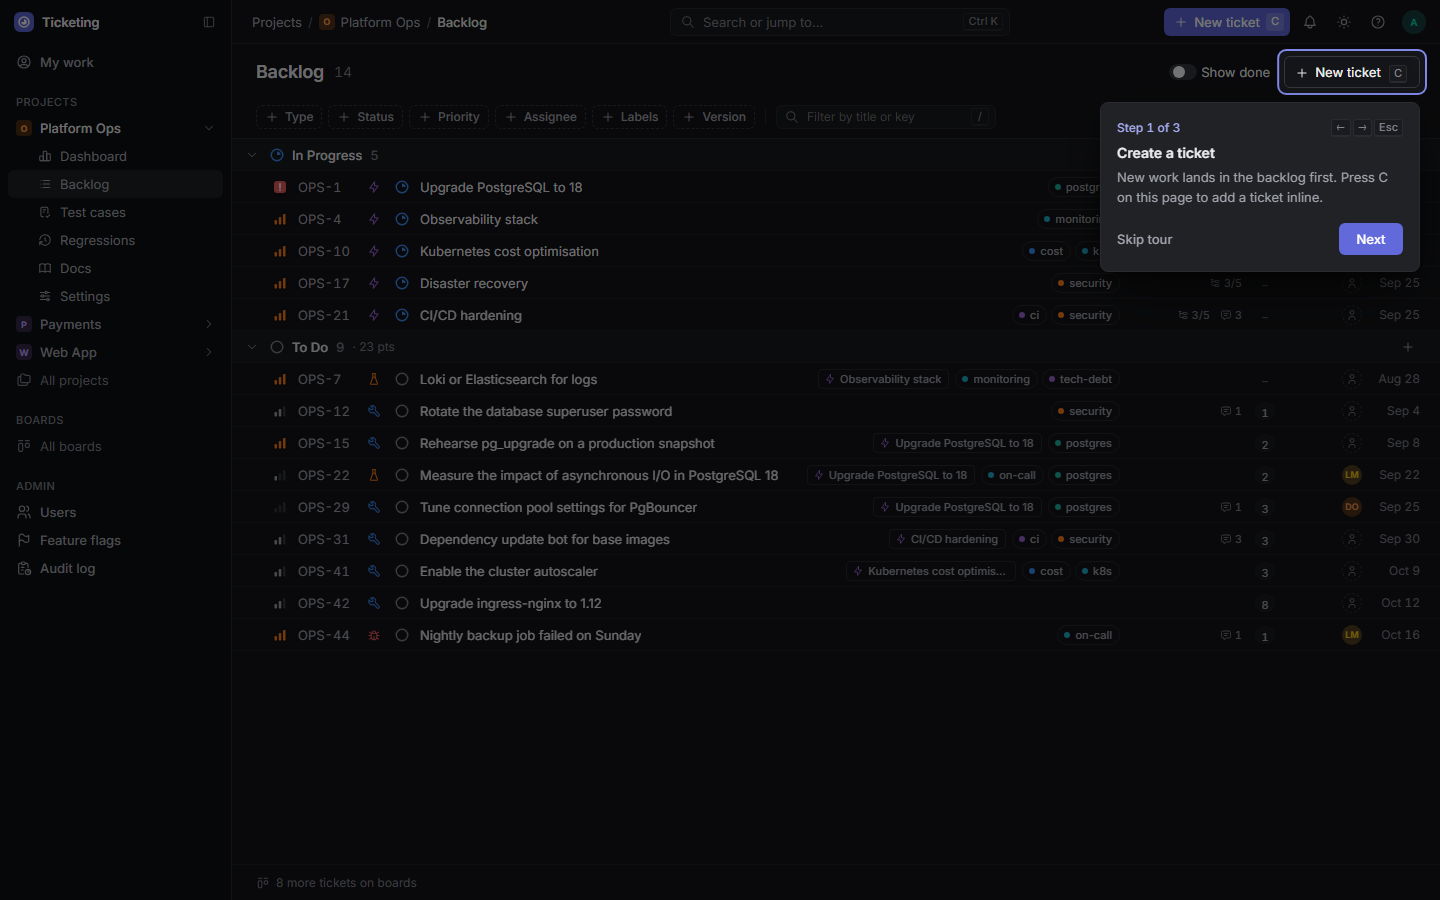
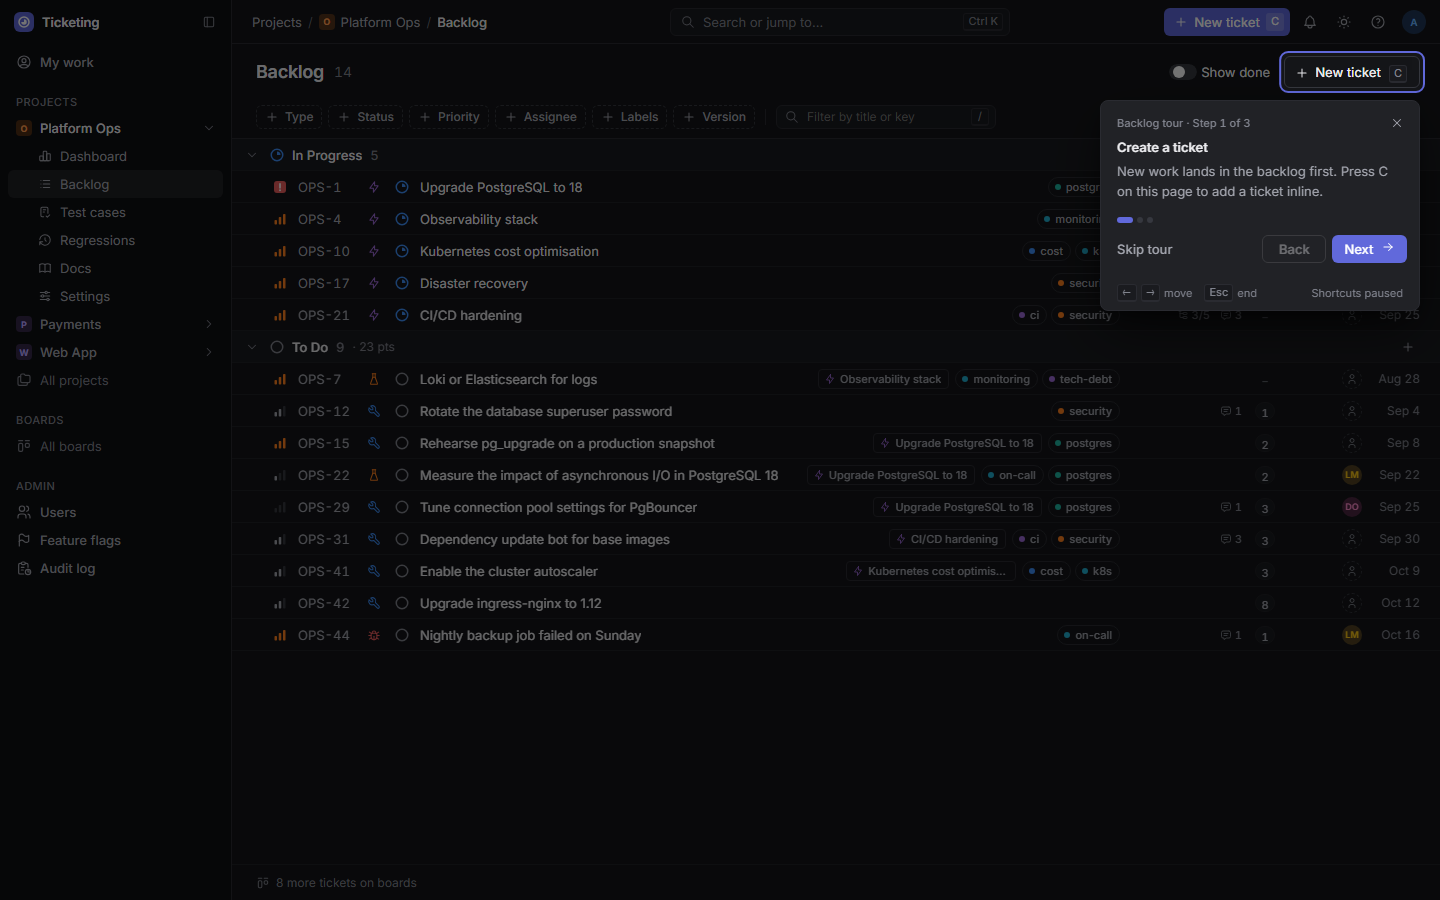
TKT-53: research note and screenshots for the mockup look, anchor test per spec 14.4

Changed region(s): [[0.75, 0.1244, 1.0, 0.3733], [0.875, 0.0622, 1.0, 0.1244], [0.9062, 0.0311, 1.0, 0.0622]]

diff --git a/docs/research/tour-engine.md b/docs/research/tour-engine.md
@@ -25,7 +25,7 @@ Tour data for the demo is in `features/ui-kit/tour-prototype.ts`. The real backl
 | `tour.model.ts` | `TourDefinition`, `TourStep`, `TourAccess`. Pure data, no Angular imports. | types only |
 | `tour-logic.ts` | Pure rules: role filter, `:param` routes, path match, skip and abort plan, spotlight hole geometry. | lazy |
 | `tour-anchor.registry.ts` | `TourAnchorRegistry`, a root service: signal list of `{ id, element }`, `get`, `has`, `whenAvailable(id, timeout)`. | root, tiny |
-| `tour-anchor.directive.ts` | `tkTourAnchor="backlog.new-ticket"`: renders `data-tour`, registers while in the DOM. | in feature chunks |
+| `tour-anchor.directive.ts` | `tkTourAnchor="backlog.quick-create"`: renders `data-tour`, registers while in the DOM. | in feature chunks |
 | `tour-launcher.ts` | `TourLauncher.start(tour, { access, params, returnFocusTo })` resolves `TourResult`. Plans the tour, then `import('./tour-session')`. | root, tiny |
 | `tour-session.ts` | One running tour: overlays, measuring, keys, interruptions. | lazy chunk |
 | `tour-spotlight.component.ts` | Full-screen SVG with a `<mask>` hole and an accent ring. | lazy chunk |
@@ -35,14 +35,14 @@ Tour data for the demo is in `features/ui-kit/tour-prototype.ts`. The real backl
 
 | Criterion | How | Verified |
 |---|---|---|
-| Spotlight on the backlog's New button, SVG mask in a CDK overlay | Overlay 1: global position strategy, transparent CDK backdrop, `tk-tour-spotlight` (fixed, `pointer-events: none`) draws `rect.dim` filled with `--tk-overlay-mask` through a `<mask>` whose black rounded rect is the hole (padding 6 px, `rx` 8). | Playwright on our own stack: New button at (1284, 56, 136×32), hole at (1278, 50, 148×44). |
-| Re-measured with ResizeObserver and on scroll | `ResizeObserver` on the anchor and on `<html>`, plus `resize` on the window and a capturing, passive `scroll` listener on the document (inner scroll containers included). Everything is throttled to one `requestAnimationFrame`. A disconnected anchor (re-render, `@if`) is looked up again through the registry. | Scrolling the UI kit's content by 40 px moved the hole from y 38 to 0 (clipped). Resizing 1440→1000 px changed the hole width from 464 to 414. |
-| Popover with `FlexibleConnectedPositionStrategy` | Overlay 2: `createFlexibleConnectedPositionStrategy(injector, anchor)` with the step's `placement` first, then below/above (start and end aligned), end, start. Uses `withPush`, an 8 px viewport margin and a reposition scroll strategy. On a step change, `setOrigin()` + `withPositions()` + `updatePosition()` reuse the same overlay. | Card at x 1100 below-end of the New button (the below-start position would overflow). |
+| Spotlight on the backlog's New button, SVG mask in a CDK overlay | Overlay 1: global position strategy, transparent CDK backdrop, `tk-tour-spotlight` (fixed, `pointer-events: none`) draws `rect.dim` filled with `--tk-overlay-mask` through a `<mask>` whose black rounded rect is the hole (padding 4 px, `rx` 8), plus a 2 px `--tk-accent` ring. | Playwright on our own stack: New button (`backlog.quick-create`) at (1284, 56, 136×32), hole at (1280, 52, 144×40). |
+| Re-measured with ResizeObserver and on scroll | `ResizeObserver` on the anchor and on `<html>`, plus `resize` on the window and a capturing, passive `scroll` listener on the document (inner scroll containers included). Everything is throttled to one `requestAnimationFrame`. A disconnected anchor (re-render, `@if`) is looked up again through the registry. | Scrolling the UI kit's content by 40 px moved the hole from y 40 to 0 (clipped). Resizing 1440→1000 px changed the hole width from 460 to 410. |
+| Popover with `FlexibleConnectedPositionStrategy` | Overlay 2: `createFlexibleConnectedPositionStrategy(injector, anchor)` with the step's `placement` first, then below/above (start and end aligned), end, start. Uses `withPush`, an 8 px viewport margin and a reposition scroll strategy. On a step change, `setOrigin()` + `withPositions()` + `updatePosition()` reuse the same overlay. | Card at x 1100, y 100: below the New button, aligned to its end (the start-aligned position would overflow). |
 | `cdkTrapFocus`, `role="dialog"` + `aria-labelledby`, "Step n of m" via `LiveAnnouncer` | Card markup as above; `aria-describedby` points at the body. The dialog takes focus on open (screen readers read title and body). Each step change calls `LiveAnnouncer.announce('Step 2 of 3: Group and sort', 'polite')`. The CDK adds the live region to `aria-owns` of `aria-modal` elements, so VoiceOver still hears it. | Vitest and Playwright: role, `aria-modal`, label text, focus inside, live region text "Step 1 of 3: Create a ticket". |
 | Esc, ← and → | `OverlayRef.keydownEvents()` of the popover (the CDK keyboard dispatcher), so keys work wherever focus is. On the last step, → does nothing: Done must be pressed. | Vitest and Playwright. |
 | Focus returns to the trigger | `returnFocusTo` (default: the element focused at start) is refocused on `completed`, `dismissed` and `aborted`, but not on `interrupted`: the peek or a dialog keeps its focus. | Vitest (`#trigger`) and Playwright (Done → `tour-demo-here` focused). |
 | Global shortcuts suppressed | No `ShortcutService` change. The spotlight overlay has a CDK backdrop, so `isOverlayOpen()` is true for the whole tour, as for any dialog. | Vitest: `c` not fired while open, fired after Esc. Playwright: `c` and `g m` did nothing during the tour; `g m` navigated after Esc. |
-| Light and dark themes | Only tokens: `--tk-surface-raised`, `--tk-border`, `--tk-shadow-lg`, `--tk-radius-lg`, `--tk-overlay-mask` (0.32 light / 0.55 dark), `--tk-focus`, `--tk-accent-fg`. | Screenshots `docs/screenshots/tkt-53-tour-step-{light,dark}.png`. |
+| Light and dark themes | Only tokens: `--tk-surface-raised`, `--tk-border`, `--tk-border-subtle`, `--tk-shadow-lg`, `--tk-radius-lg`, `--tk-overlay-mask` (0.32 light / 0.55 dark), `--tk-accent`, `--tk-text-subtle`. | Screenshots `docs/screenshots/tkt-53-tour-step-{light,dark}.png`. |
 | `prefers-reduced-motion` | The card's fade + 4 px rise, the spotlight fade and the hole's move use `--tk-duration-*`, which the tokens set to 0 ms. Scrolling the anchor into view uses `behavior: 'auto'` instead of `'smooth'`. | Playwright with `reducedMotion: 'reduce'`: animation duration `0s`. |
 | Zoneless | Signals plus `ComponentRef.setInput` and `afterNextRender`. The app and TestBed both run `provideZonelessChangeDetection()`. | All of the above ran zoneless. |
 | Initial bundle unchanged | `tour-session` and both components are one lazy chunk (12.2 kB raw). The directive and registry are a 1.2 kB chunk shared by the backlog and UI kit chunks. No tour code is reachable from `main` (checked by walking static imports). Initial total: 949.05 kB before, 949.32 kB after. The +0.27 kB is esbuild export plumbing, because the lazy launcher now imports `NavigationContext` and `PeekService` from the initial chunks. The budget (1 MB warning) is not touched. | `npm run build` on both commits. |
@@ -86,7 +86,7 @@ export const BACKLOG_TOUR: TourDefinition = {
   viewId: 'backlog.list',      // keyed by view id, never by variant (D-129)
   title: 'Backlog',
   steps: [
-    { id: 'new-ticket', anchor: 'backlog.new-ticket', requires: 'write', title: '…', body: '…' },
+    { id: 'quick-create', anchor: 'backlog.quick-create', requires: 'write', title: '…', body: '…' },
     { id: 'group-sort', anchor: 'backlog.group-sort', placement: 'below', title: '…', body: '…' },
   ],
 };
@@ -125,7 +125,7 @@ interface TourStep {
 - `tkTourAnchor="<view-area>.<thing>"` on the element; the directive renders `data-tour` and registers it in `TourAnchorRegistry`. Anchors are separate from `data-testid`: tests may change test ids freely, tours never look them up. Playwright may use `[data-tour=…]`.
 - The registry keeps a list, and the latest registration of an id wins. A peek panel over the board can expose `ticket.*` anchors while the page underneath has its own.
 - Ticket view sections added through `provideTicketDetailSection` put `tkTourAnchor` inside their own component (TKT-79).
-- **Anchor rule (D-129):** every variant of a view exposes the same tour anchor ids. A variant that drops a feature drops its anchor, and the step is skipped. Anchor ids are part of a view's contract like its view id. TKT-56 should add a Vitest per toured view that renders it and checks that the tour's anchor ids resolve. When a second variant ever exists, the same test runs over each variant.
+- **Anchor rule (D-129):** every variant of a view exposes the same tour anchor ids. A variant that drops a feature drops its anchor, and the step is skipped. Anchor ids are part of a view's contract like its view id. Spec 14.4 (TKT-75) names the guard: `e2e/tests/onboarding/tour-anchors.spec.ts` opens every tour's view with seeded data and fails when an anchor disappears, and a Vitest test checks that every tour's view id is registered. When a second variant ever exists, the e2e spec runs once per variant (force the flag).
 
 ### 4.4 Shortcuts, overlays, peek
 
@@ -138,16 +138,19 @@ interface TourStep {
 
 `TourLauncher`, `TourAnchorRegistry` and `TourAnchorDirective` are the only eager pieces: a few hundred bytes, in feature chunks or root services. The session, both components, `LiveAnnouncer` use and the positioning code load on the first `start()`. Tour definitions should be imported lazily by `GuidedTours` too (`import('./tours/backlog.tours')`), keyed by view id, so adding tours never grows `main`.
 
-## 5. Styling choices for TKT-75 (mockups)
+## 5. Look: the TKT-75 mockup, with one deviation
 
-The prototype look (screenshots above) uses only existing tokens. Proposed for the mockups:
-- Card: 320 px wide, `--tk-surface-raised`, 1 px `--tk-border`, `--tk-radius-lg` (8 px, the popover radius), `--tk-shadow-lg` (heavier than menus because it floats over a dimmed page), padding `--tk-space-4`.
-- Eyebrow row: "Step n of m" in `--tk-text-sm` medium `--tk-accent-fg` (tabular figures), and on the right `tk-kbd` hints `←` `→` `Esc`, hidden from screen readers.
-- Title `--tk-text-md` semibold; body `--tk-text-base` `--tk-text-muted`.
-- Actions: "Skip tour" (`mat-button`, muted, flush left; hidden on the last step), spacer, "Back" (`mat-stroked-button`, from step 2), "Next"/"Done" (`mat-flat-button`, accent).
-- Backdrop: `--tk-overlay-mask` (the same dim as dialogs), hole padded 6 px with radius 8 px, a 2 px `--tk-focus` ring around the hole.
-- No arrow or caret: the ring shows the target, and an arrow would need a second positioning pass when `withPush` shifts the card.
-- Motion: card fade + 4 px rise over `--tk-duration-fast`; spotlight fade and hole move over `--tk-duration-base`; all 0 under reduced motion.
+TKT-75's mockup (`docs/design/mockups/onboarding.html`, section "Tour step with spotlight") landed on the integration branch during the spike. The prototype follows it, using only existing tokens:
+- Card: 320 px, `--tk-surface-raised`, 1 px `--tk-border`, `--tk-radius-lg`, `--tk-shadow-lg`.
+- Eyebrow: "Backlog tour · Step 1 of 3" (`--tk-text-xs`, medium, `--tk-text-subtle`) and an "End tour" × button.
+- Title `--tk-text-base` semibold; body `--tk-text-base` in `--tk-text-muted`.
+- Progress dots: 6 px dots, the current one 16 px wide in `--tk-accent`. They are hidden from screen readers, because the live region says "Step n of m".
+- Actions at 28 px (`tk-dense`): "Skip tour" (text, hidden on the last step), "Back" (stroked, disabled on step 1), "Next →" / "Done" (flat, accent).
+- Key row under a `--tk-border-subtle` rule: `←` `→` move, `Esc` end, "Shortcuts paused".
+- Spotlight: page dimmed with `--tk-overlay-mask`, hole padded 4 px with an 8 px radius, 2 px `--tk-accent` ring.
+- Motion: card fade + 4 px rise over `--tk-duration-fast`, dots and spotlight over `--tk-duration-fast` / `--tk-duration-base`, all 0 under reduced motion.
+
+**Deviation: no caret.** The mockup draws a rotated-square arrow on the card. With `FlexibleConnectedPositionStrategy` and `withPush`, the card can flip sides or shift away from the anchor's centre, so a caret needs `positionChanges` handling and an offset computed from the pushed position. The spotlight ring already marks the target. TKT-56 can add the caret, or TKT-75 can drop it from the mockup. I recommend dropping it.
 
 ## 6. MCP server instructions (for TKT-59)
 
